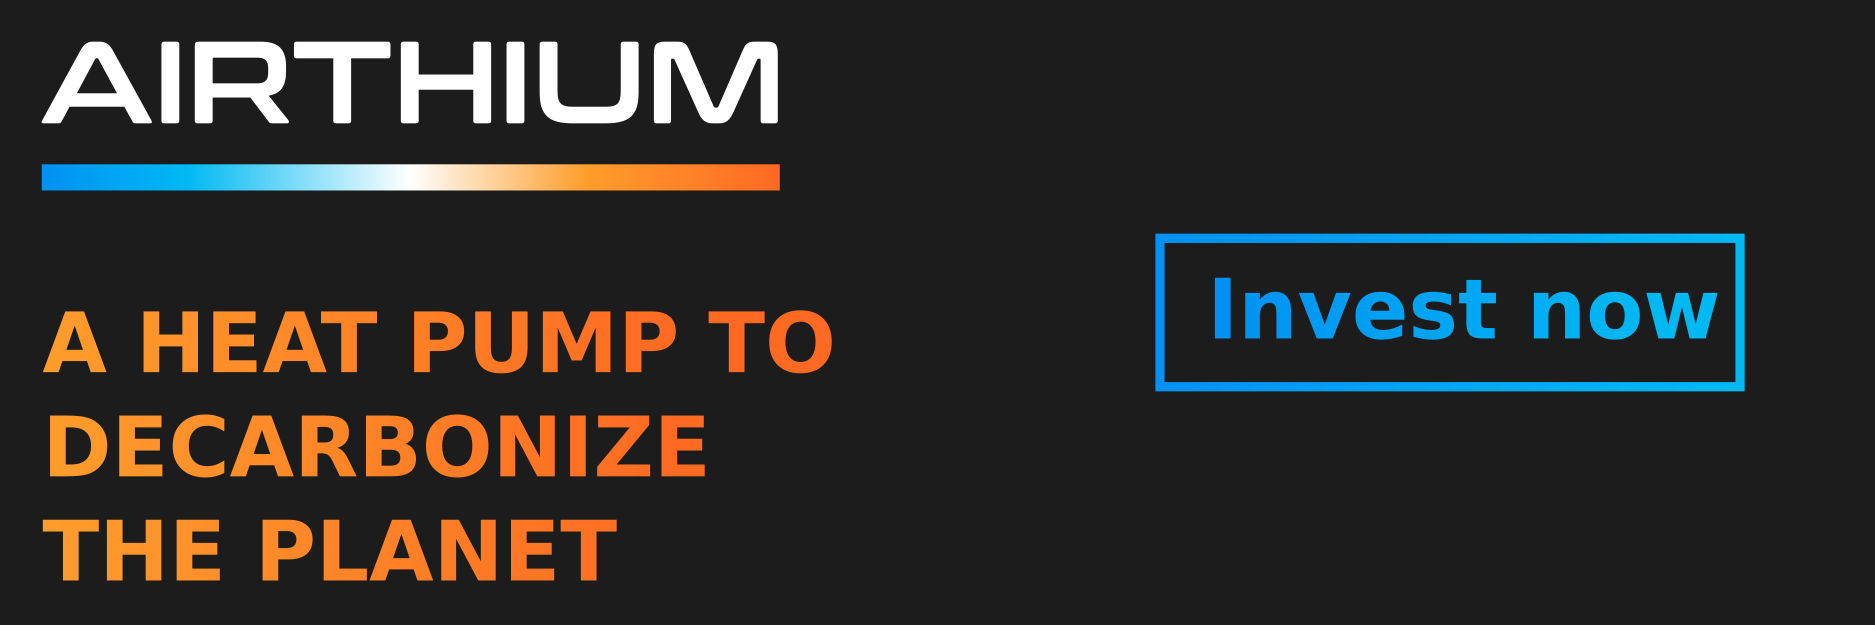
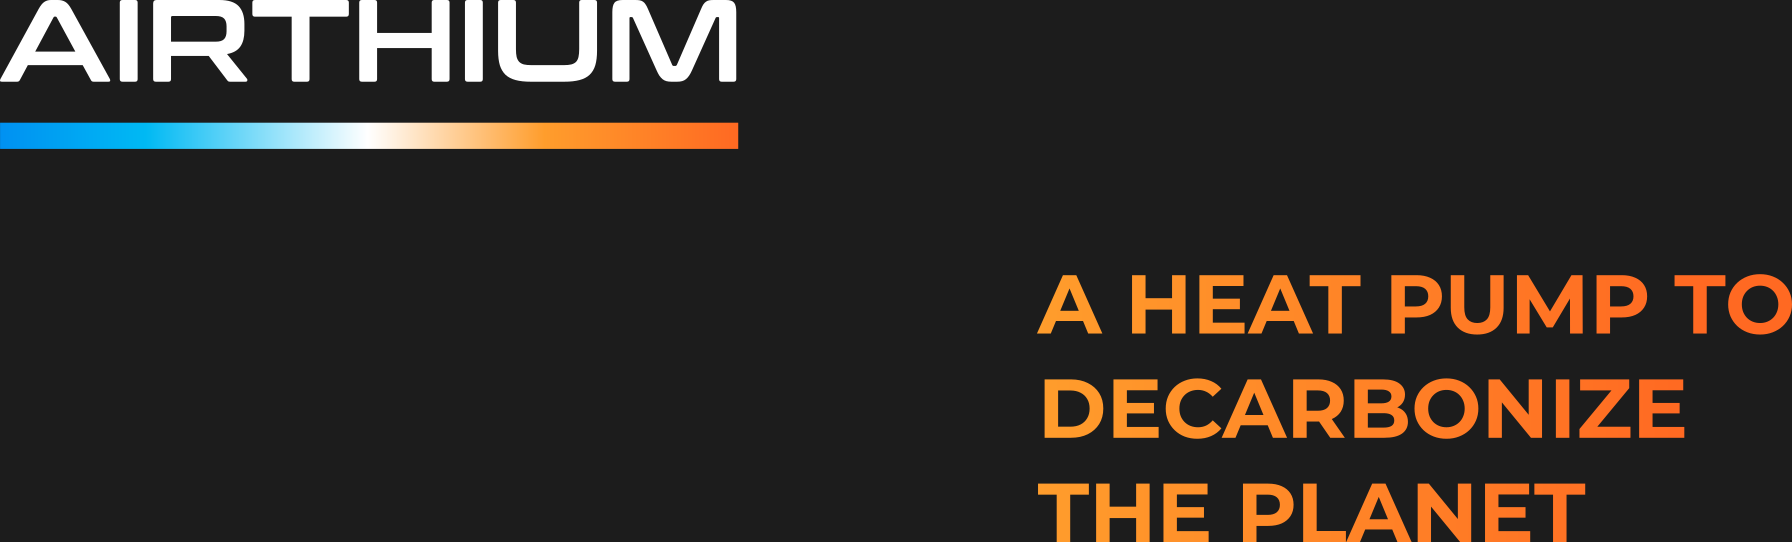
update

diff --git a/profile/README.md b/profile/README.md
@@ -1,14 +1,12 @@
-<a href="https://wefunder.com/airthium" target="_blank">
-    <img
-        src="https://github.com/Airthium/.github/blob/main/profile/README.png"
-        alt="Airthium"
-        width="calc(100% + 50px)"
-        style="
-            max-width: calc(100% + 50px) !important;
-            margin-left: -25px;
-            margin-bottom: -30px;
-            border-bottom-left-radius: 5px;
-            border-bottom-right-radius: 5px;
-        "
-        />
-</a>
+<img
+    src="https://github.com/Airthium/.github/blob/main/profile/README.png"
+    alt="Airthium"
+    width="calc(100% + 50px)"
+    style="
+        max-width: calc(100% + 50px) !important;
+        margin-left: -25px;
+        margin-bottom: -30px;
+        border-bottom-left-radius: 5px;
+        border-bottom-right-radius: 5px;
+    "
+    />
